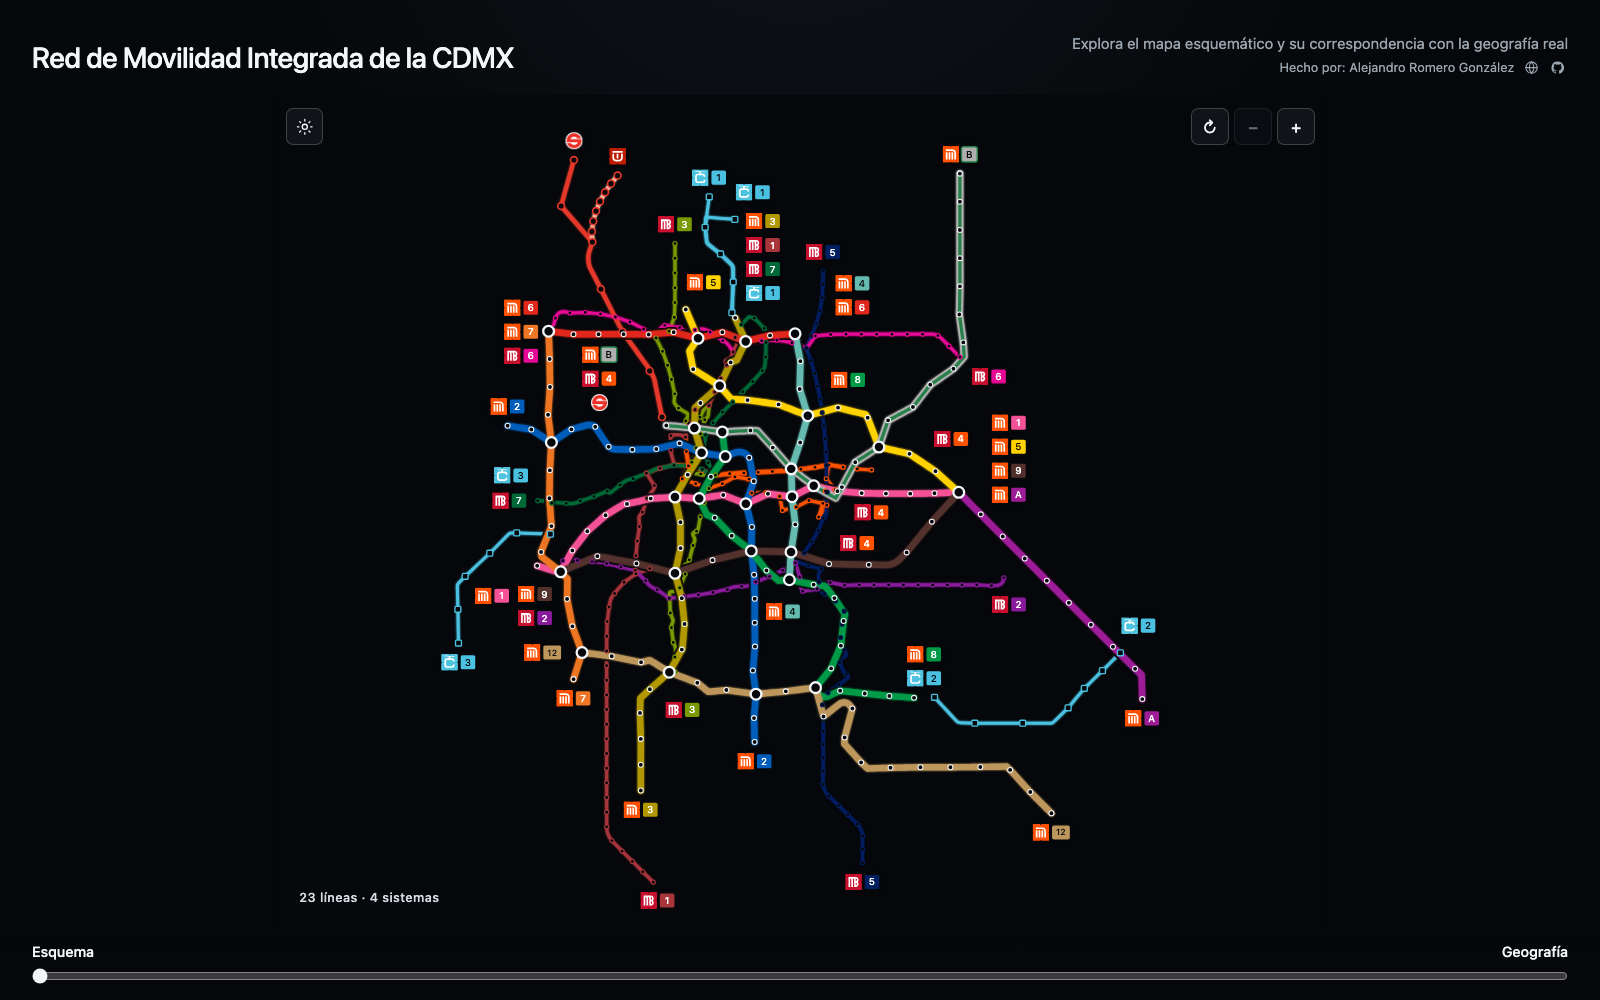
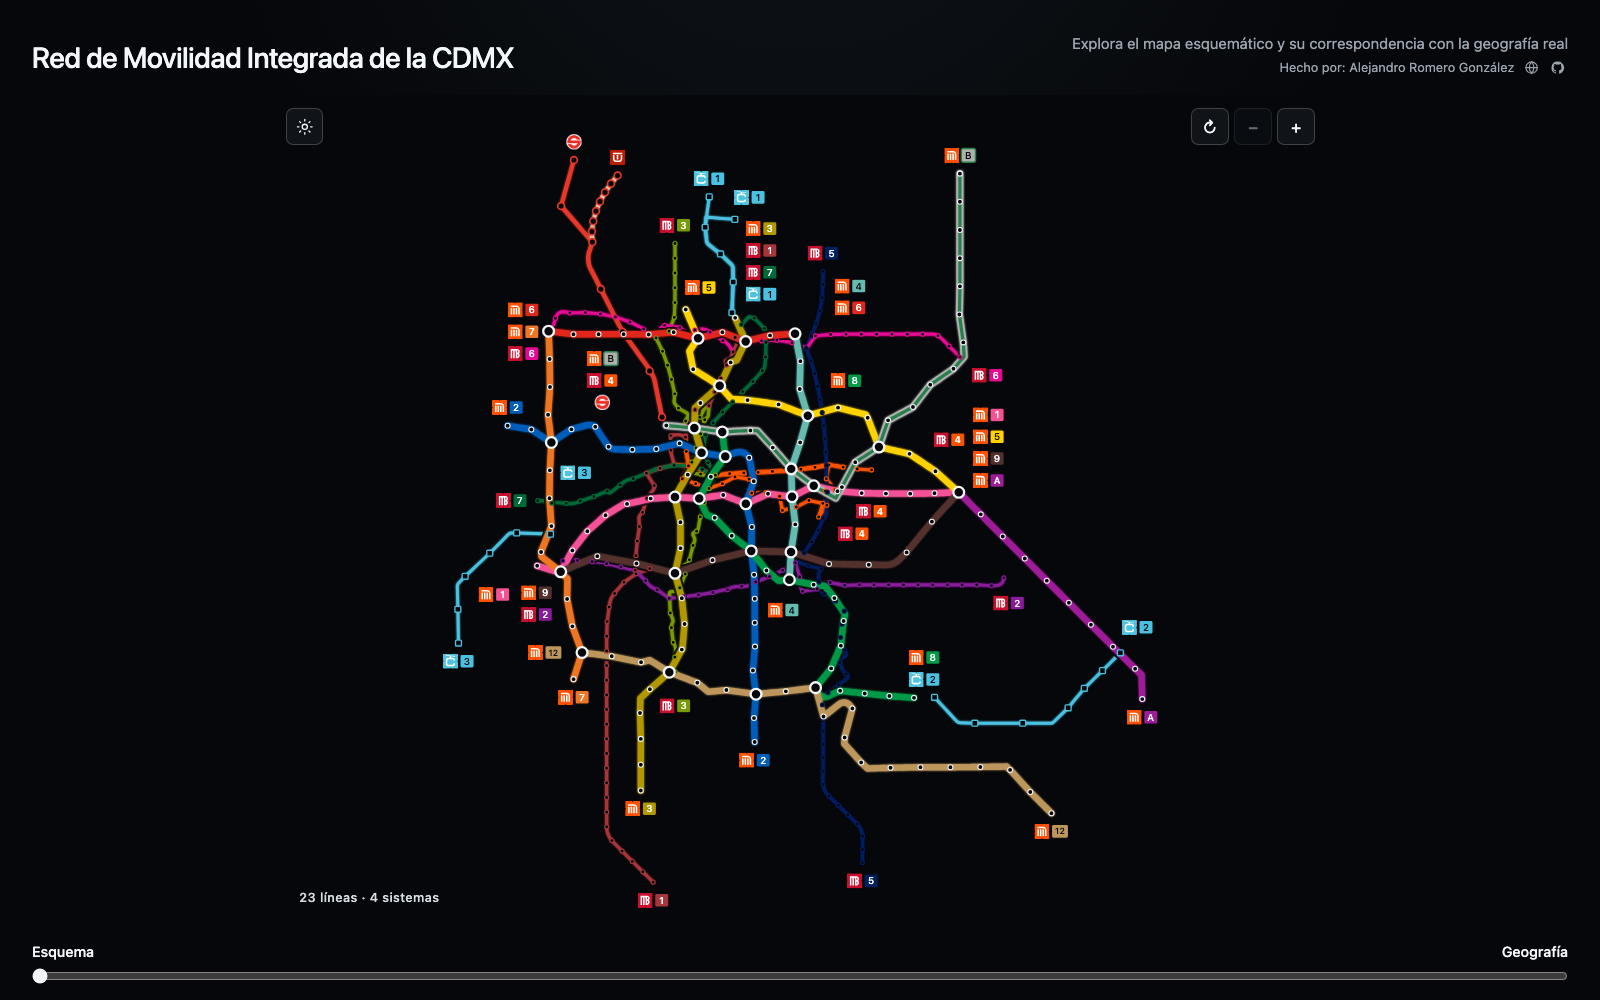
Compacta los distintivos de terminales

diff --git a/index.html b/index.html
@@ -2777,14 +2777,18 @@
     return (0.299 * r + 0.587 * g + 0.114 * b) > 154 ? "#05070a" : "#ffffff";
   }
 
+  const terminalBadgeScale = 0.9;
+
   function createOfficialBadge(iconKey, routeLabel, routeColor, options = {}) {
     const group = svgNode("g");
-    const iconSize = 16;
-    const gap = routeLabel ? 2 : 0;
-    const routeWidth = routeLabel ? (String(routeLabel).length > 1 ? 18 : 15) : 0;
-    const routeHeight = 14.5;
+    const iconSize = 16 * terminalBadgeScale;
+    const gap = routeLabel ? 2 * terminalBadgeScale : 0;
+    const routeWidth = routeLabel
+      ? (String(routeLabel).length > 1 ? 18 : 15) * terminalBadgeScale
+      : 0;
+    const routeHeight = 14.5 * terminalBadgeScale;
     const totalWidth = iconSize + gap + routeWidth;
-    const clearance = 2.25;
+    const clearance = 2.25 * terminalBadgeScale;
     const plateHeight = iconSize + clearance * 2;
     const plate = svgNode("rect", {
       class: "badge-clearance",
@@ -2792,7 +2796,7 @@
       y: (-plateHeight / 2).toFixed(2),
       width: (totalWidth + clearance * 2).toFixed(2),
       height: plateHeight.toFixed(2),
-      rx: 3.8,
+      rx: (3.8 * terminalBadgeScale).toFixed(2),
       fill: "#05070a"
     });
     group.appendChild(plate);
@@ -2816,7 +2820,7 @@
         y: (-routeHeight / 2).toFixed(2),
         width: routeWidth,
         height: routeHeight,
-        rx: 2.1,
+        rx: (2.1 * terminalBadgeScale).toFixed(2),
         fill: options.fill || routeColor,
         stroke: options.stroke || "#05070a",
         "stroke-width": options.strokeWidth || 1.2
